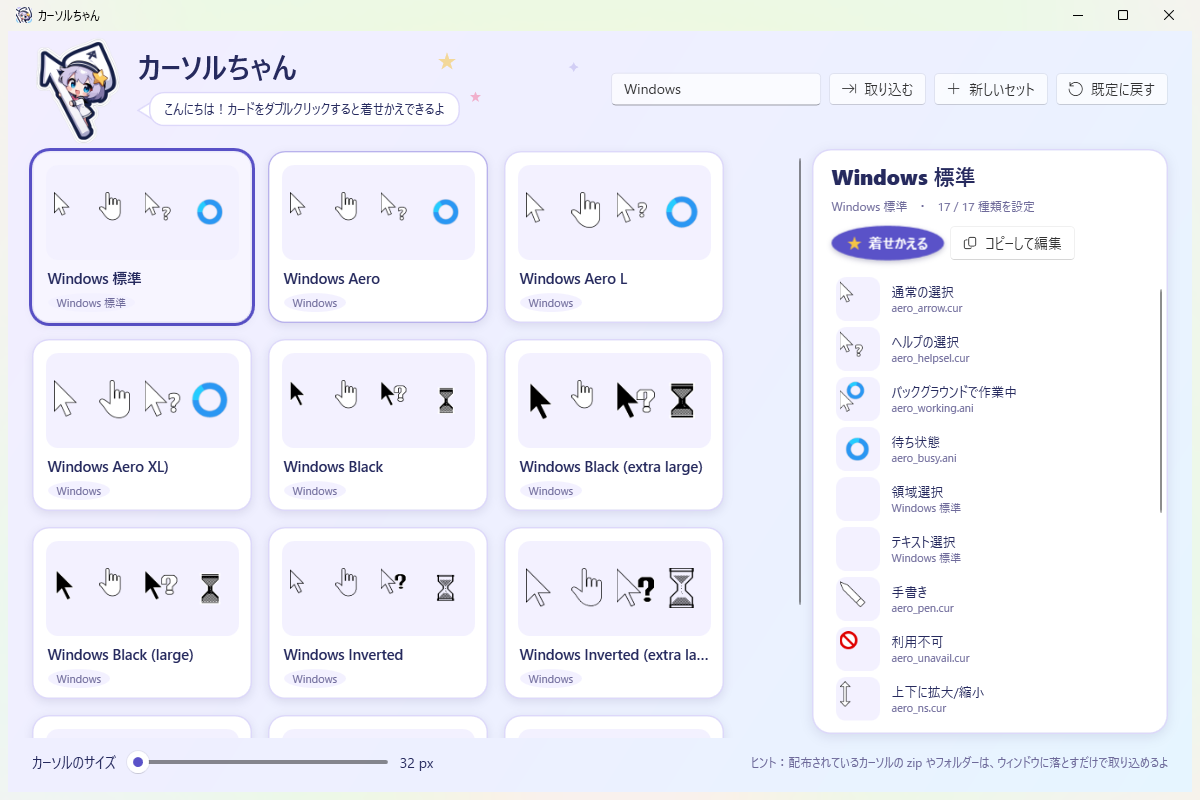
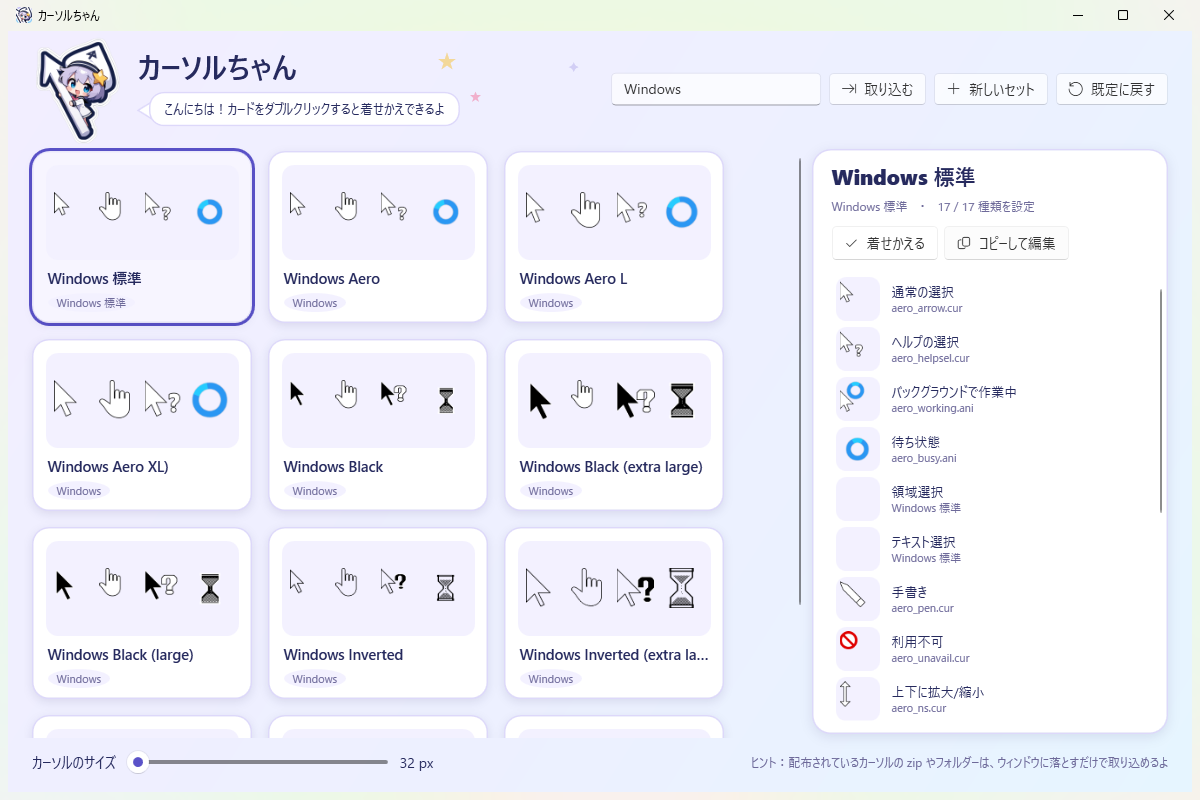
使わなくなった素材を削除し、着せかえるボタンをほかと同じ見た目に
- 太くした別案・最初の SVG 版・アイコン用の重複画像・不採用のデザイン案を削除
- 着せかえるボタンの専用スタイルをやめ、ほかのボタンと同じ見た目に

Changed region(s): [[0.6783, 0.2812, 0.8942, 0.3438]]

diff --git a/src/CursorChan/App.xaml b/src/CursorChan/App.xaml
@@ -46,41 +46,5 @@
         <SolidColorBrush x:Key="SliderThumbBackgroundPointerOver" Color="#6B64D2" />
         <SolidColorBrush x:Key="SliderThumbBackgroundPressed" Color="#4C45B3" />
 
-        <!-- メインのボタン（着せかえる・作成） -->
-        <Style x:Key="PrimaryButton" TargetType="Button">
-            <Setter Property="Foreground" Value="White" />
-            <Setter Property="Background" Value="#5A52C8" />
-            <Setter Property="Padding" Value="16,7" />
-            <Setter Property="Cursor" Value="Hand" />
-            <Setter Property="FocusVisualStyle" Value="{x:Null}" />
-            <Setter Property="Template">
-                <Setter.Value>
-                    <ControlTemplate TargetType="Button">
-                        <Border x:Name="Bd" CornerRadius="999" Background="{TemplateBinding Background}"
-                                Padding="{TemplateBinding Padding}" BorderThickness="0">
-                            <Border.Effect>
-                                <DropShadowEffect BlurRadius="8" ShadowDepth="2" Direction="270" Opacity="0.25" Color="#3A2F8F" />
-                            </Border.Effect>
-                            <ContentPresenter HorizontalAlignment="Center" VerticalAlignment="Center" />
-                        </Border>
-                        <ControlTemplate.Triggers>
-                            <Trigger Property="IsMouseOver" Value="True">
-                                <Setter TargetName="Bd" Property="Background" Value="#6B64D2" />
-                            </Trigger>
-                            <Trigger Property="IsPressed" Value="True">
-                                <Setter TargetName="Bd" Property="Background" Value="#4C45B3" />
-                            </Trigger>
-                            <Trigger Property="IsKeyboardFocused" Value="True">
-                                <Setter TargetName="Bd" Property="BorderBrush" Value="#262A5E" />
-                                <Setter TargetName="Bd" Property="BorderThickness" Value="2" />
-                            </Trigger>
-                            <Trigger Property="IsEnabled" Value="False">
-                                <Setter TargetName="Bd" Property="Opacity" Value="0.5" />
-                            </Trigger>
-                        </ControlTemplate.Triggers>
-                    </ControlTemplate>
-                </Setter.Value>
-            </Setter>
-        </Style>
     </Application.Resources>
 </Application>

diff --git a/src/CursorChan/MainWindow.xaml b/src/CursorChan/MainWindow.xaml
@@ -229,11 +229,11 @@
                                      LostFocus="NameBox_LostFocus" KeyDown="NameBox_KeyDown" ToolTip="名前を変更（Enter で確定）" />
                             <TextBlock x:Name="KindText" FontSize="12" Margin="0,6,0,12" Foreground="{StaticResource SubText}" />
                             <WrapPanel>
-                                <Button x:Name="ApplyButton" Click="Apply_Click" Padding="16,7" Margin="0,0,6,6"
-                                        Style="{StaticResource PrimaryButton}">
+                                <Button x:Name="ApplyButton" Click="Apply_Click" Padding="12,7" Margin="0,0,6,6"
+                                       >
                                     <StackPanel Orientation="Horizontal">
-                                        <TextBlock Text="★" Margin="0,0,7,0" Foreground="{StaticResource Star}" VerticalAlignment="Center" />
-                                        <TextBlock Text="着せかえる" FontWeight="Bold" />
+                                        <TextBlock Style="{StaticResource IconText}" Text="&#xE73E;" Margin="0,0,8,0" />
+                                        <TextBlock Text="着せかえる" />
                                     </StackPanel>
                                 </Button>
                                 <Button x:Name="DuplicateButton" Click="Duplicate_Click" Padding="12,7" Margin="0,0,6,6">

diff --git a/src/CursorChan/PngCursorWindow.xaml b/src/CursorChan/PngCursorWindow.xaml
@@ -57,7 +57,7 @@
 
         <StackPanel Grid.Row="3" Orientation="Horizontal" HorizontalAlignment="Right" Margin="0,14,0,0">
             <Button Content="作成" IsDefault="True" Padding="20,6" Margin="0,0,8,0" Click="Ok_Click"
-                    Style="{StaticResource PrimaryButton}" />
+                    />
             <Button Content="キャンセル" IsCancel="True" Padding="16,6" />
         </StackPanel>
     </Grid>

diff --git a/art/icon.html b/art/icon.html
@@ -17,5 +17,5 @@
     <div class="star" style="left:760px; top:90px">★</div>
     <div class="star" style="left:820px; top:230px; font-size:54px; color:#FFB3CB">★</div>
   </div>
-  <img src="mascot-icon.png">
+  <img src="mascot-chibi.png">
 </body></html>

diff --git a/art/anima/make_chara.py b/art/anima/make_chara.py
@@ -25,25 +25,9 @@ S = {
     "character": {"tags": ""},
 }
 
-# 共通の特徴: 白とネイビー、星のヘアピン、ピンクのリボン、矢印カーソル
+# カーソルちゃん: 矢印形の白い帽子、ラベンダーの髪、星のヘアピン、セーラー服、大きな矢印を抱っこ。
+# マスコットに使っているのは hatarrow の seed 303（raw\hatarrow_303.png）
 DESIGNS = {
-    "hoodie": (
-        "short hair, white hair, purple eyes, yellow star hair ornament, white hoodie, navy blue trim, "
-        "pink ribbon, holding giant mouse cursor, arrow, waving, smile, open mouth",
-        "A cute chibi mascot girl who personifies a computer mouse cursor. She hugs a giant white arrow-shaped "
-        "mouse pointer with a thick navy outline and waves at the viewer with her other hand. "
-        "Simple sticker art on a plain white background."),
-    "hat": (
-        "short hair, lavender hair, blue eyes, white hat, arrow-shaped hat, yellow star hair ornament, "
-        "white dress, navy blue collar, pink bow, waving, smile, blush",
-        "A cute chibi mascot girl who personifies a computer mouse cursor. She wears a white hat shaped like an "
-        "arrow mouse pointer with a navy outline, and waves happily. Simple sticker art on a plain white background."),
-    "ahoge": (
-        "medium hair, light blue hair, white hair, purple eyes, ahoge, yellow star hair ornament, "
-        "white sailor collar, navy blue skirt, pink ribbon, pointing up, index finger raised, smile, sparkle",
-        "A cute chibi mascot girl who personifies a computer mouse cursor. Her ahoge is shaped like a small white "
-        "arrow mouse pointer, and she cheerfully points upward with one finger. Simple sticker art on a plain white background."),
-    # 本命: 帽子の子（hat_44 の見た目）に、hoodie 案くらいの太さの矢印を抱っこさせる
     "hatarrow": (
         "short hair, lavender hair, blue eyes, white hat, arrow-shaped hat, arrow symbol on hat, "
         "yellow star hair ornament, white dress, navy blue sailor collar, pink bow, "

diff --git a/README.md b/README.md
@@ -22,13 +22,11 @@
 
 矢印カーソル形の帽子をかぶり、大きな矢印を抱えた「カーソルちゃん」が案内します。イラストは画像生成モデル Anima（ComfyUI）で作りました。
 
-- `art/mascot-chibi.png` … マスコットの透過画像（白いステッカー縁つき。アプリ画面・サムネイル用）
-- `art/mascot-icon.png` … アプリアイコン用（中身は同じ絵）
-- `art/anima/` … 生成のスクリプト（`make_chara.py`）、背景を抜いてステッカー縁を付ける `sticker.py`、矢印を太くした別案を作る `thicken.py` と元絵
+- `art/mascot-chibi.png` … マスコットの透過画像（白いステッカー縁つき。アイコン・アプリ画面・サムネイルで使用）
+- `art/anima/` … 生成のスクリプト（`make_chara.py`）、背景を抜いてステッカー縁を付ける `sticker.py`、元絵
 - `art/render.ps1` … HTML を Edge で PNG にするスクリプト
 - `art/icon.html` … アプリアイコンの元
 - `art/booth-thumbnail.html` … BOOTH 用サムネイル（1200 × 1200）の元
-- `art/old/` … 最初の SVG 版マスコット
 
 見出しのフォントは [M PLUS Rounded 1c](https://fonts.google.com/specimen/M+PLUS+Rounded+1c)（SIL Open Font License 1.1）をアプリに同梱しています。
 
